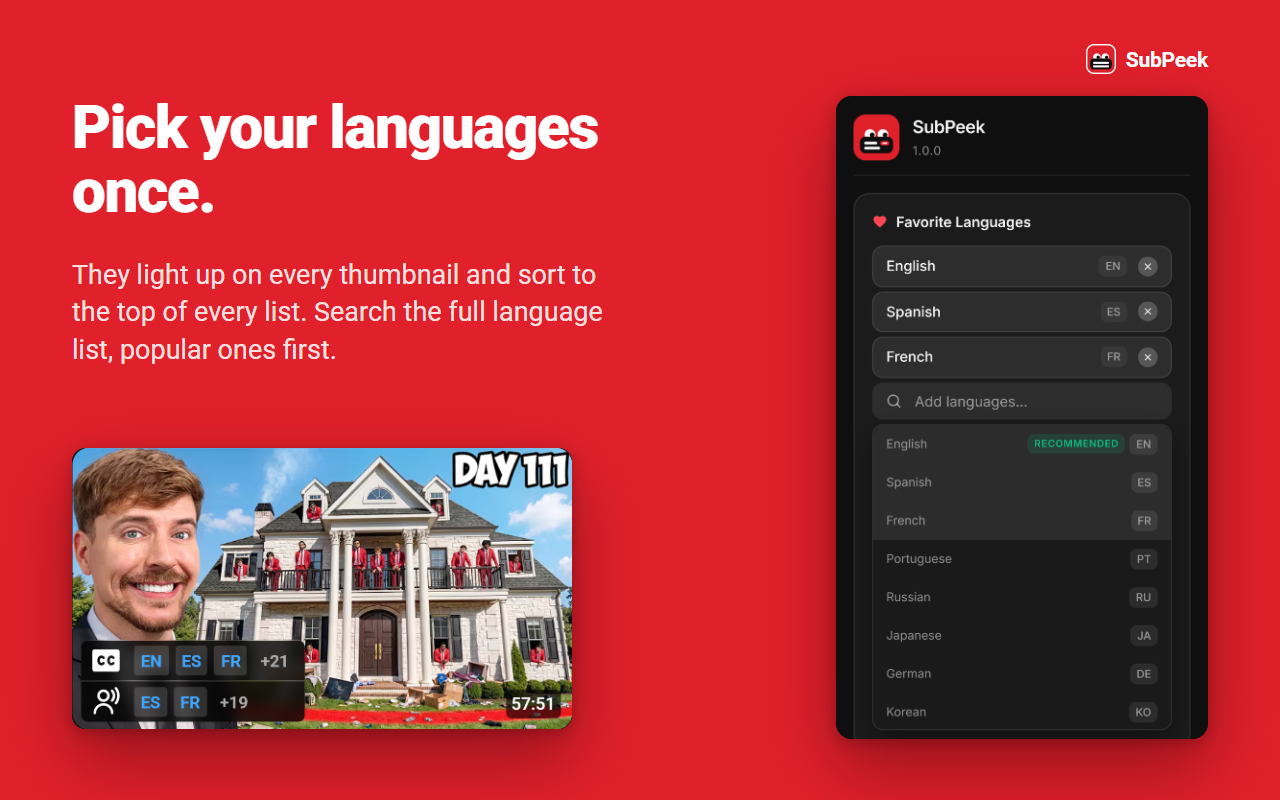
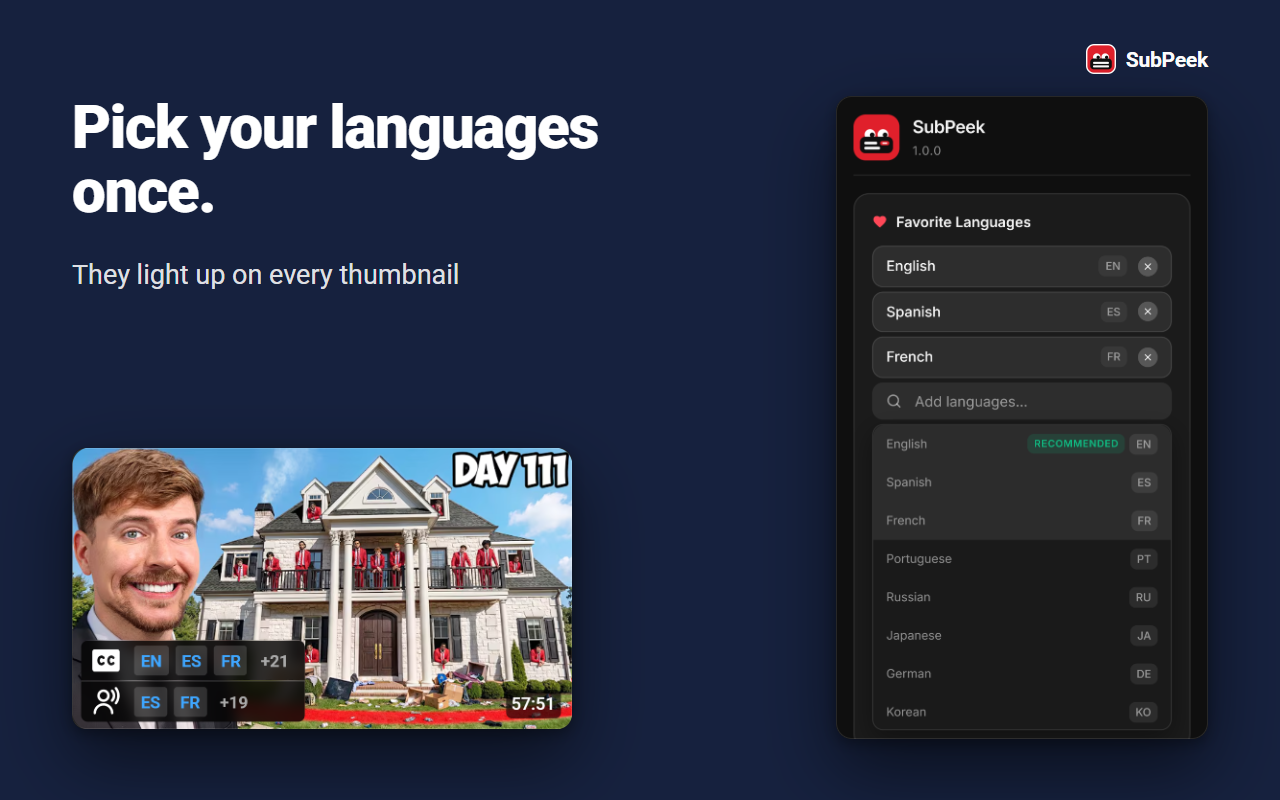
chore: make screenshot capture configurable and add npm script
- capture2.mjs takes a search query and video id for the hero card
- render.mjs uses a temporary browser profile and removes it on exit
- npm run screenshots runs the render step
- Regenerate the four slides

diff --git a/store-assets/screenshots/src/slides/slide-4.html b/store-assets/screenshots/src/slides/slide-4.html
@@ -1,43 +1,75 @@
 <!doctype html>
 <html lang="en">
+
 <head>
-<meta charset="utf-8" />
-<title>SubPeek slide 4</title>
-<link rel="stylesheet" href="base.css" />
-<style>
-    h1 { left: 72px; top: 84px; width: 1000px; }
-    .lead { left: 72px; top: 160px; width: 900px; }
-    .checks { left: 72px; top: 214px; }
-    .grid { left: 72px; top: 272px; width: 1136px; height: 528px; border-radius: 16px 16px 0 0; }
-    /* teded-grid.png is the 2x page capture cropped to css x 118..1254, y 548..1078. */
-    .grid img { width: 1136px; }
-</style>
+    <meta charset="utf-8" />
+    <title>SubPeek slide 4</title>
+    <link rel="stylesheet" href="base.css" />
+    <style>
+        h1 {
+            left: 72px;
+            top: 84px;
+            width: 1000px;
+        }
+
+        .lead {
+            left: 72px;
+            top: 160px;
+            width: 900px;
+        }
+
+        .checks {
+            left: 72px;
+            top: 214px;
+        }
+
+        .grid {
+            left: 72px;
+            top: 272px;
+            width: 1136px;
+            height: 528px;
+            border-radius: 16px 16px 0 0;
+        }
+
+        /* teded-grid.png is the 2x page capture cropped to css x 118..1254, y 548..1078. */
+        .grid img {
+            width: 1136px;
+        }
+    </style>
 </head>
+
 <body>
     <div class="brand">
         <svg viewBox="0 0 128 128" aria-hidden="true">
             <rect x="3" y="3" width="122" height="122" rx="32" fill="#e0202b" stroke="#fff" stroke-width="6" />
-            <circle cx="46" cy="56" r="16" fill="#fff" /><circle cx="82" cy="56" r="16" fill="#fff" />
-            <circle cx="52" cy="57" r="7" fill="#0f0f0f" /><circle cx="88" cy="57" r="7" fill="#0f0f0f" />
+            <circle cx="46" cy="56" r="16" fill="#fff" />
+            <circle cx="82" cy="56" r="16" fill="#fff" />
+            <circle cx="52" cy="57" r="7" fill="#0f0f0f" />
+            <circle cx="88" cy="57" r="7" fill="#0f0f0f" />
             <rect x="18" y="62" width="92" height="46" rx="15" fill="#0f0f0f" />
-            <rect x="30" y="76" width="68" height="9" rx="4.5" fill="#fff" /><rect x="30" y="91" width="68" height="9" rx="4.5" fill="#fff" />
+            <rect x="30" y="76" width="68" height="9" rx="4.5" fill="#fff" />
+            <rect x="30" y="91" width="68" height="9" rx="4.5" fill="#fff" />
         </svg>
         <span>SubPeek</span>
     </div>
 
     <h1>Works on every YouTube page.</h1>
-    <p class="lead">Home, search, subscriptions and channel pages.</p>
+    <p class="lead">Home, search and channel pages.</p>
     <div class="checks">
         <div>
-            <svg viewBox="0 0 24 24" fill="none" stroke="#fff" stroke-width="2.6" stroke-linecap="round" stroke-linejoin="round"><path d="M20 6 9 17l-5-5" /></svg>
+            <svg viewBox="0 0 24 24" fill="none" stroke="#fff" stroke-width="2.6" stroke-linecap="round"
+                stroke-linejoin="round">
+                <path d="M20 6 9 17l-5-5" />
+            </svg>
             <span>No data collected</span>
         </div>
-        <div>
+        <!-- <div>
             <svg viewBox="0 0 24 24" fill="none" stroke="#fff" stroke-width="2.6" stroke-linecap="round" stroke-linejoin="round"><path d="M20 6 9 17l-5-5" /></svg>
             <span>Runs only on youtube.com</span>
-        </div>
+        </div> -->
     </div>
 
     <div class="panel grid"><img src="../captures/teded-grid.png" alt="" /></div>
 </body>
+
 </html>

diff --git a/store-assets/screenshots/src/slides/slide-3.html b/store-assets/screenshots/src/slides/slide-3.html
@@ -1,36 +1,73 @@
 <!doctype html>
 <html lang="en">
+
 <head>
-<meta charset="utf-8" />
-<title>SubPeek slide 3</title>
-<link rel="stylesheet" href="base.css" />
-<style>
-    h1 { left: 72px; top: 96px; width: 600px; }
-    .lead { left: 72px; top: 256px; width: 560px; }
-    .settings { left: 836px; top: 96px; width: 372px; height: 643px; }
-    .settings img { width: 372px; }
-    /* A real card with the same three favorites lit up, so the link between
+    <meta charset="utf-8" />
+    <title>SubPeek slide 3</title>
+    <link rel="stylesheet" href="base.css" />
+    <style>
+        h1 {
+            left: 72px;
+            top: 96px;
+            width: 600px;
+        }
+
+        .lead {
+            left: 72px;
+            top: 256px;
+            width: 560px;
+        }
+
+        .settings {
+            left: 836px;
+            top: 96px;
+            width: 372px;
+            height: 643px;
+        }
+
+        .settings img {
+            width: 372px;
+        }
+
+        /* A real card with the same three favorites lit up, so the link between
        the list and the badge is visible. */
-    .thumb { left: 72px; top: 448px; width: 500px; height: 281px; border-radius: 14px; }
-    .thumb img { width: 500px; }
-</style>
+        .thumb {
+            left: 72px;
+            top: 448px;
+            width: 500px;
+            height: 281px;
+            border-radius: 14px;
+        }
+
+        .thumb img {
+            width: 500px;
+        }
+    </style>
 </head>
+
 <body>
     <div class="brand">
         <svg viewBox="0 0 128 128" aria-hidden="true">
             <rect x="3" y="3" width="122" height="122" rx="32" fill="#e0202b" stroke="#fff" stroke-width="6" />
-            <circle cx="46" cy="56" r="16" fill="#fff" /><circle cx="82" cy="56" r="16" fill="#fff" />
-            <circle cx="52" cy="57" r="7" fill="#0f0f0f" /><circle cx="88" cy="57" r="7" fill="#0f0f0f" />
+            <circle cx="46" cy="56" r="16" fill="#fff" />
+            <circle cx="82" cy="56" r="16" fill="#fff" />
+            <circle cx="52" cy="57" r="7" fill="#0f0f0f" />
+            <circle cx="88" cy="57" r="7" fill="#0f0f0f" />
             <rect x="18" y="62" width="92" height="46" rx="15" fill="#0f0f0f" />
-            <rect x="30" y="76" width="68" height="9" rx="4.5" fill="#fff" /><rect x="30" y="91" width="68" height="9" rx="4.5" fill="#fff" />
+            <rect x="30" y="76" width="68" height="9" rx="4.5" fill="#fff" />
+            <rect x="30" y="91" width="68" height="9" rx="4.5" fill="#fff" />
         </svg>
         <span>SubPeek</span>
     </div>
 
     <h1>Pick your languages once.</h1>
-    <p class="lead">They light up on every thumbnail and sort to the top of every list. Search the full language list, popular ones first.</p>
+    <p class="lead">They light up on every thumbnail
+        <!-- and sort to the top of every list
+        . Search the full language list, popular ones first. -->
+    </p>
 
     <div class="panel settings"><img src="../captures/settings-dropdown.png" alt="" /></div>
     <div class="panel thumb"><img src="../captures/grid-card-2.png" alt="" /></div>
 </body>
+
 </html>

diff --git a/store-assets/screenshots/src/slides/base.css b/store-assets/screenshots/src/slides/base.css
@@ -13,9 +13,12 @@ body {
     overflow: hidden;
 }
 
+/* Deep navy canvas: the complement of the SubPeek red, so the logo and the
+   favorite-heart red pop, while the dark YouTube panels still read as panels
+   and the blue language codes stay on-palette. */
 body {
     position: relative;
-    background: #e0202b;
+    background: #16213e;
     color: #fff;
     font-family: Roboto, Arial, Helvetica, sans-serif;
     -webkit-font-smoothing: antialiased;
@@ -23,7 +26,7 @@ body {
 }
 
 /* Signature, top right. The icon keeps its own red and gets a white ring so
-   it reads on the red canvas. */
+   it reads at this size. */
 .brand {
     position: absolute;
     top: 44px;
@@ -65,9 +68,11 @@ h1 {
     background: #0f0f0f;
     border-radius: 16px;
     overflow: hidden;
+    outline: 1px solid rgba(255, 255, 255, 0.1);
+    outline-offset: -1px;
     box-shadow:
-        0 30px 70px rgba(60, 0, 6, 0.45),
-        0 4px 14px rgba(60, 0, 6, 0.3);
+        0 30px 70px rgba(0, 0, 0, 0.55),
+        0 4px 14px rgba(0, 0, 0, 0.35);
 }
 .panel img {
     display: block;
@@ -81,8 +86,8 @@ h1 {
     overflow: hidden;
     background: #0f0f0f;
     box-shadow:
-        0 30px 70px rgba(60, 0, 6, 0.5),
-        0 4px 14px rgba(60, 0, 6, 0.35);
+        0 30px 70px rgba(0, 0, 0, 0.6),
+        0 4px 14px rgba(0, 0, 0, 0.4);
 }
 .loupe img {
     display: block;

diff --git a/store-assets/screenshots/src/slides/slide-2.html b/store-assets/screenshots/src/slides/slide-2.html
@@ -36,7 +36,7 @@
     <div class="callout c-sub">Subtitles</div>
     <div class="callout c-dub">Dubbed audio</div>
     <div class="callout c-yours">Your languages<small>only the ones this video has</small></div>
-    <div class="callout c-more">21 more languages<small>also available on this video</small></div>
+    <div class="callout c-more">22 more languages<small>also available on this video</small></div>
 
     <svg class="overlay" viewBox="0 0 1280 800">
         <line x1="274" y1="401" x2="338" y2="401" /><circle cx="342" cy="401" r="5" />

diff --git a/store-assets/screenshots/src/slides/slide-1.html b/store-assets/screenshots/src/slides/slide-1.html
@@ -30,7 +30,7 @@
     <h1>See captions and dubs before you click.</h1>
     <p class="lead">Every YouTube thumbnail gets a label with the subtitle and audio languages it offers.</p>
 
-    <div class="panel thumb"><img src="../captures/search-card-0.png" alt="" /></div>
+    <div class="panel thumb"><img src="../captures/hero-card.png" alt="" /></div>
 
     <svg class="overlay" viewBox="0 0 1280 800">
         <rect x="618" y="357" width="194" height="77" rx="9" stroke="#fff" stroke-width="3" fill="none" />

diff --git a/store-assets/screenshots/README.md b/store-assets/screenshots/README.md
@@ -17,17 +17,25 @@ each script.
 
 ```sh
 node store-assets/screenshots/src/capture.mjs  store-assets/screenshots/src/captures en,es,fr
-node store-assets/screenshots/src/capture2.mjs store-assets/screenshots/src/captures en,es,fr
-node store-assets/screenshots/src/render.mjs   store-assets/screenshots/src/slides store-assets/screenshots
+node store-assets/screenshots/src/capture2.mjs store-assets/screenshots/src/captures en,es,fr "mrbeast escape 100 cops" Qtl8lJwbd4g
+npm run screenshots
 ```
+
+`npm run screenshots` is the render step (`src/render.mjs` with the two
+folders above). To re-render one slide while editing copy, call the script
+directly and add the slide number: `node store-assets/screenshots/src/render.mjs
+store-assets/screenshots/src/slides store-assets/screenshots 3`.
 
 - `capture.mjs` presets the favorite languages (third argument), then captures
   live badges on the MrBeast and TED-Ed channel grids and the search page, the
   in-page track popup (not used by any slide), and the settings page. Crops are
   3x, settings 9x.
-- `capture2.mjs` captures one badge on its own at 8x (slides 1 and 2) and
-  writes `badge-geometry.json`, whose numbers drive the callout positions in
-  `slide-2.html`.
+- `capture2.mjs` searches YouTube for the fourth argument, picks the card
+  whose video id is the fifth argument (any badge-bearing card when omitted),
+  and saves it as `hero-card.png` (3x, slide 1) plus its badge alone as
+  `badge-8x.png` (8x, slides 1 and 2). It also writes `badge-geometry.json`,
+  whose numbers drive the callout positions in `slide-2.html`. Pick a video
+  with a friendly thumbnail; the hero is the first thing store visitors see.
 - `render.mjs` opens each `slides/slide-N.html` at 1280x800 and saves
   `screenshot-N-1280x800.png`. Roboto is fetched from Google Fonts at render
   time only; nothing in the extension changes.
